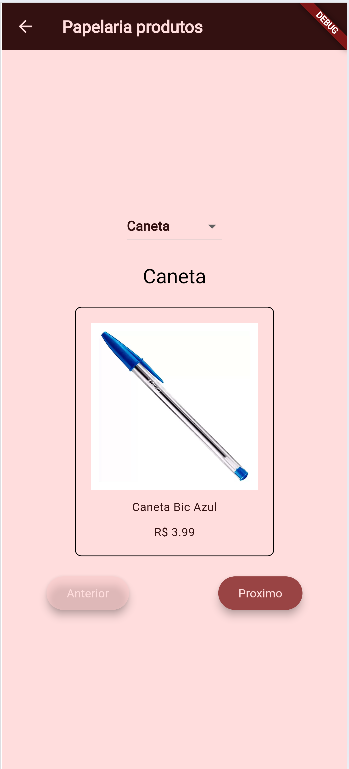
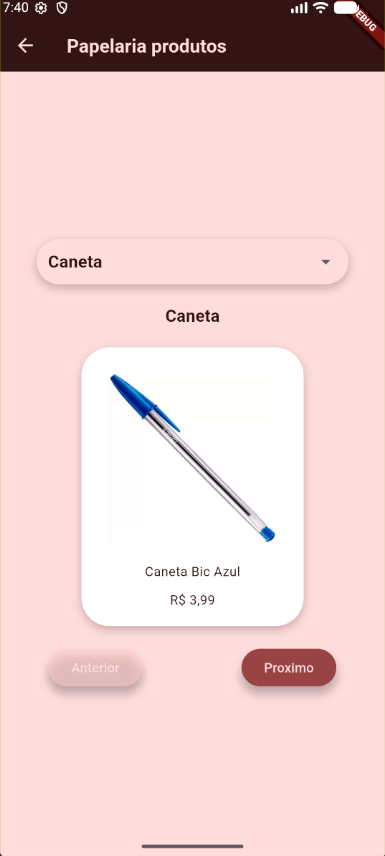
exemplo

diff --git a/lib/ui/home.dart b/lib/ui/home.dart
@@ -2,6 +2,7 @@ import 'dart:convert';
 
 import 'package:flutter/material.dart';
 import 'package:flutter/services.dart';
+import 'package:produtos/root/pallet.dart';
 
 class Home extends StatefulWidget {
   const Home({super.key});
@@ -38,32 +39,57 @@ class _HomeState extends State<Home> {
           mainAxisAlignment: MainAxisAlignment.center,
           spacing: 20,
           children: [
-            DropdownButton<dynamic>(
-              value: produtos.isNotEmpty ? produtos[indice] : null,
-              items: produtos
-                  .map(
-                    (produto) => DropdownMenuItem<dynamic>(
-                      value: produto,
-                      child: Text(produto['nome']),
-                    ),
-                  )
-                  .toList(),
-              onChanged: (value) {
-                setState(() {
-                  indice = produtos.indexOf(value);
-                });
-              },
+            Container(
+              margin: const EdgeInsets.symmetric(horizontal: 40),
+              decoration: BoxDecoration(
+                borderRadius: BorderRadius.circular(30),
+                color: AppColors.p1,
+                boxShadow: [
+                  BoxShadow(
+                    color: AppColors.p2,
+                    blurRadius: 8,
+                    offset: Offset(0, 4),
+                  ),
+                ],
+              ),
+              padding: const EdgeInsets.symmetric(horizontal: 12),
+              child: DropdownButton<dynamic>(
+                borderRadius: BorderRadius.circular(8),
+                isExpanded: true,
+                underline: const SizedBox.shrink(),
+                value: produtos.isNotEmpty ? produtos[indice] : null,
+                items: produtos
+                    .map(
+                      (produto) => DropdownMenuItem<dynamic>(
+                        value: produto,
+                        child: Text(produto['nome']),
+                      ),
+                    )
+                    .toList(),
+                onChanged: (value) {
+                  setState(() {
+                    indice = produtos.indexOf(value);
+                  });
+                },
+              ),
             ),
             Text(
               produtos.isNotEmpty
                   ? produtos[indice]['nome']
                   : "Nome do produto",
-              style: Theme.of(context).textTheme.headlineSmall,
+              style: Theme.of(context).textTheme.titleMedium,
             ),
             Container(
               decoration: BoxDecoration(
-                border: Border.all(color: Colors.black),
-                borderRadius: BorderRadius.circular(8),
+                borderRadius: BorderRadius.circular(30),
+                color: Colors.white,
+                boxShadow: [
+                  BoxShadow(
+                    color: AppColors.p2,
+                    blurRadius: 8,
+                    offset: Offset(0, 4),
+                  ),
+                ],
               ),
               child: Padding(
                 padding: const EdgeInsets.all(18.0),

diff --git a/lib/ui/splash.dart b/lib/ui/splash.dart
@@ -8,9 +8,66 @@ class Splash extends StatefulWidget {
   State<Splash> createState() => _SplashState();
 }
 
-class _SplashState extends State<Splash> {
-  void irParaHome() {
-    Navigator.push(context, MaterialPageRoute(builder: (context) => Home()));
+class _SplashState extends State<Splash> with TickerProviderStateMixin {
+  late AnimationController _vertical, _horizontal;
+  double _x = 0, _y = -500;
+
+  @override
+  void initState() {
+    super.initState();
+    movimentos();
+    entrada();
+  }
+
+  void movimentos() {
+    _vertical =
+        AnimationController(vsync: this, duration: Duration(milliseconds: 800))
+          ..addListener(() {
+            setState(() {
+              _y = _vertical.value * 500 - 500;
+            });
+          });
+
+    _horizontal =
+        AnimationController(vsync: this, duration: Duration(milliseconds: 800))
+          ..addListener(() {
+            setState(() {
+              _x = _horizontal.value * 300;
+            });
+          });
+  }
+
+  void resetAnimation() {
+    _horizontal.reset();
+    _vertical.reset();
+    setState(() {
+      _x = 0;
+      _y = -500;
+    });
+  }
+
+  void entrada() {
+    _vertical.forward();
+  }
+
+  void saida() {
+    _horizontal.forward().then((value) => irParaHome());
+  }
+
+  void irParaHome() async {
+    await Navigator.push(
+      context,
+      MaterialPageRoute(builder: (context) => Home()),
+    );
+    resetAnimation();
+    entrada();
+  }
+
+  @override
+  void dispose() {
+    super.dispose();
+    _vertical.dispose();
+    _horizontal.dispose();
   }
 
   @override
@@ -22,8 +79,11 @@ class _SplashState extends State<Splash> {
           mainAxisAlignment: MainAxisAlignment.center,
           spacing: 40,
           children: [
-            Image.asset('assets/icone.png', width: 150),
-            ElevatedButton(onPressed: irParaHome, child: Text("Entrar")),
+            Transform.translate(
+              offset: Offset(_x, _y),
+              child: Image.asset('assets/icone.png', width: 150),
+            ),
+            ElevatedButton(onPressed: saida, child: Text("Entrar")),
           ],
         ),
       ),

diff --git a/lib/root/theme.dart b/lib/root/theme.dart
@@ -16,7 +16,7 @@ abstract class AppTheme {
     textTheme: TextTheme(
       titleMedium: TextStyle(
         color: AppColors.p4,
-        fontSize: 16,
+        fontSize: 18,
         fontWeight: FontWeight.bold,
       ),
       bodyMedium: TextStyle(color: AppColors.p4, fontSize: 14),
